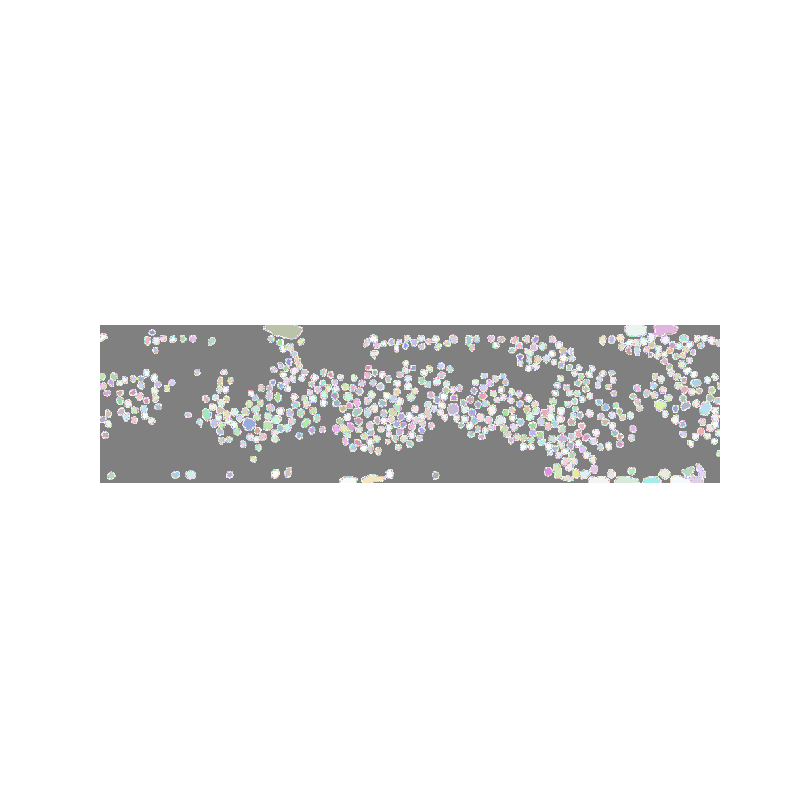
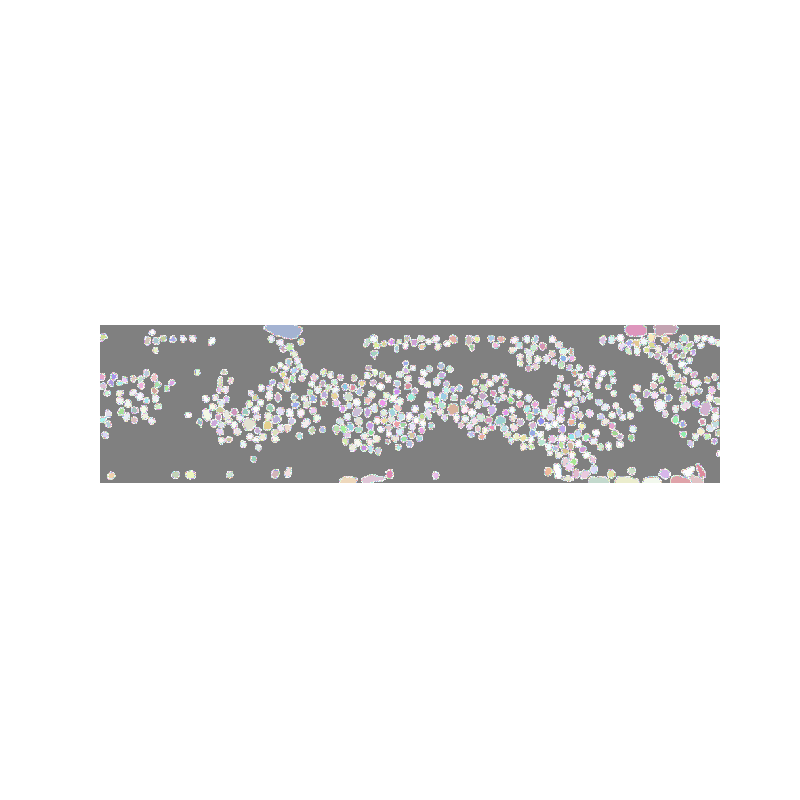
make work for our image

Changed region(s): [[0.25, 0.4062, 0.9062, 0.625], [0.125, 0.4688, 0.2188, 0.5312], [0.1875, 0.4062, 0.25, 0.4375]]

diff --git a/StarDistTest.py b/StarDistTest.py
@@ -25,9 +25,9 @@ img = np.asarray(img)
 labels, _ = model.predict_instances(normalize(img))
 
 plt.figure(figsize=(8,8))
-plt.imshow(img if img.ndim==2 else img[...,0], clim=(0,1), cmap='gray')
+#plt.imshow(img if img.ndim==2 else img[...,0], clim=(0,1), cmap='gray')
 plt.imshow(labels, cmap=lbl_cmap, alpha=0.5)
 plt.axis('off')
 
-plt.savefig('output.png')
+plt.show()
 
